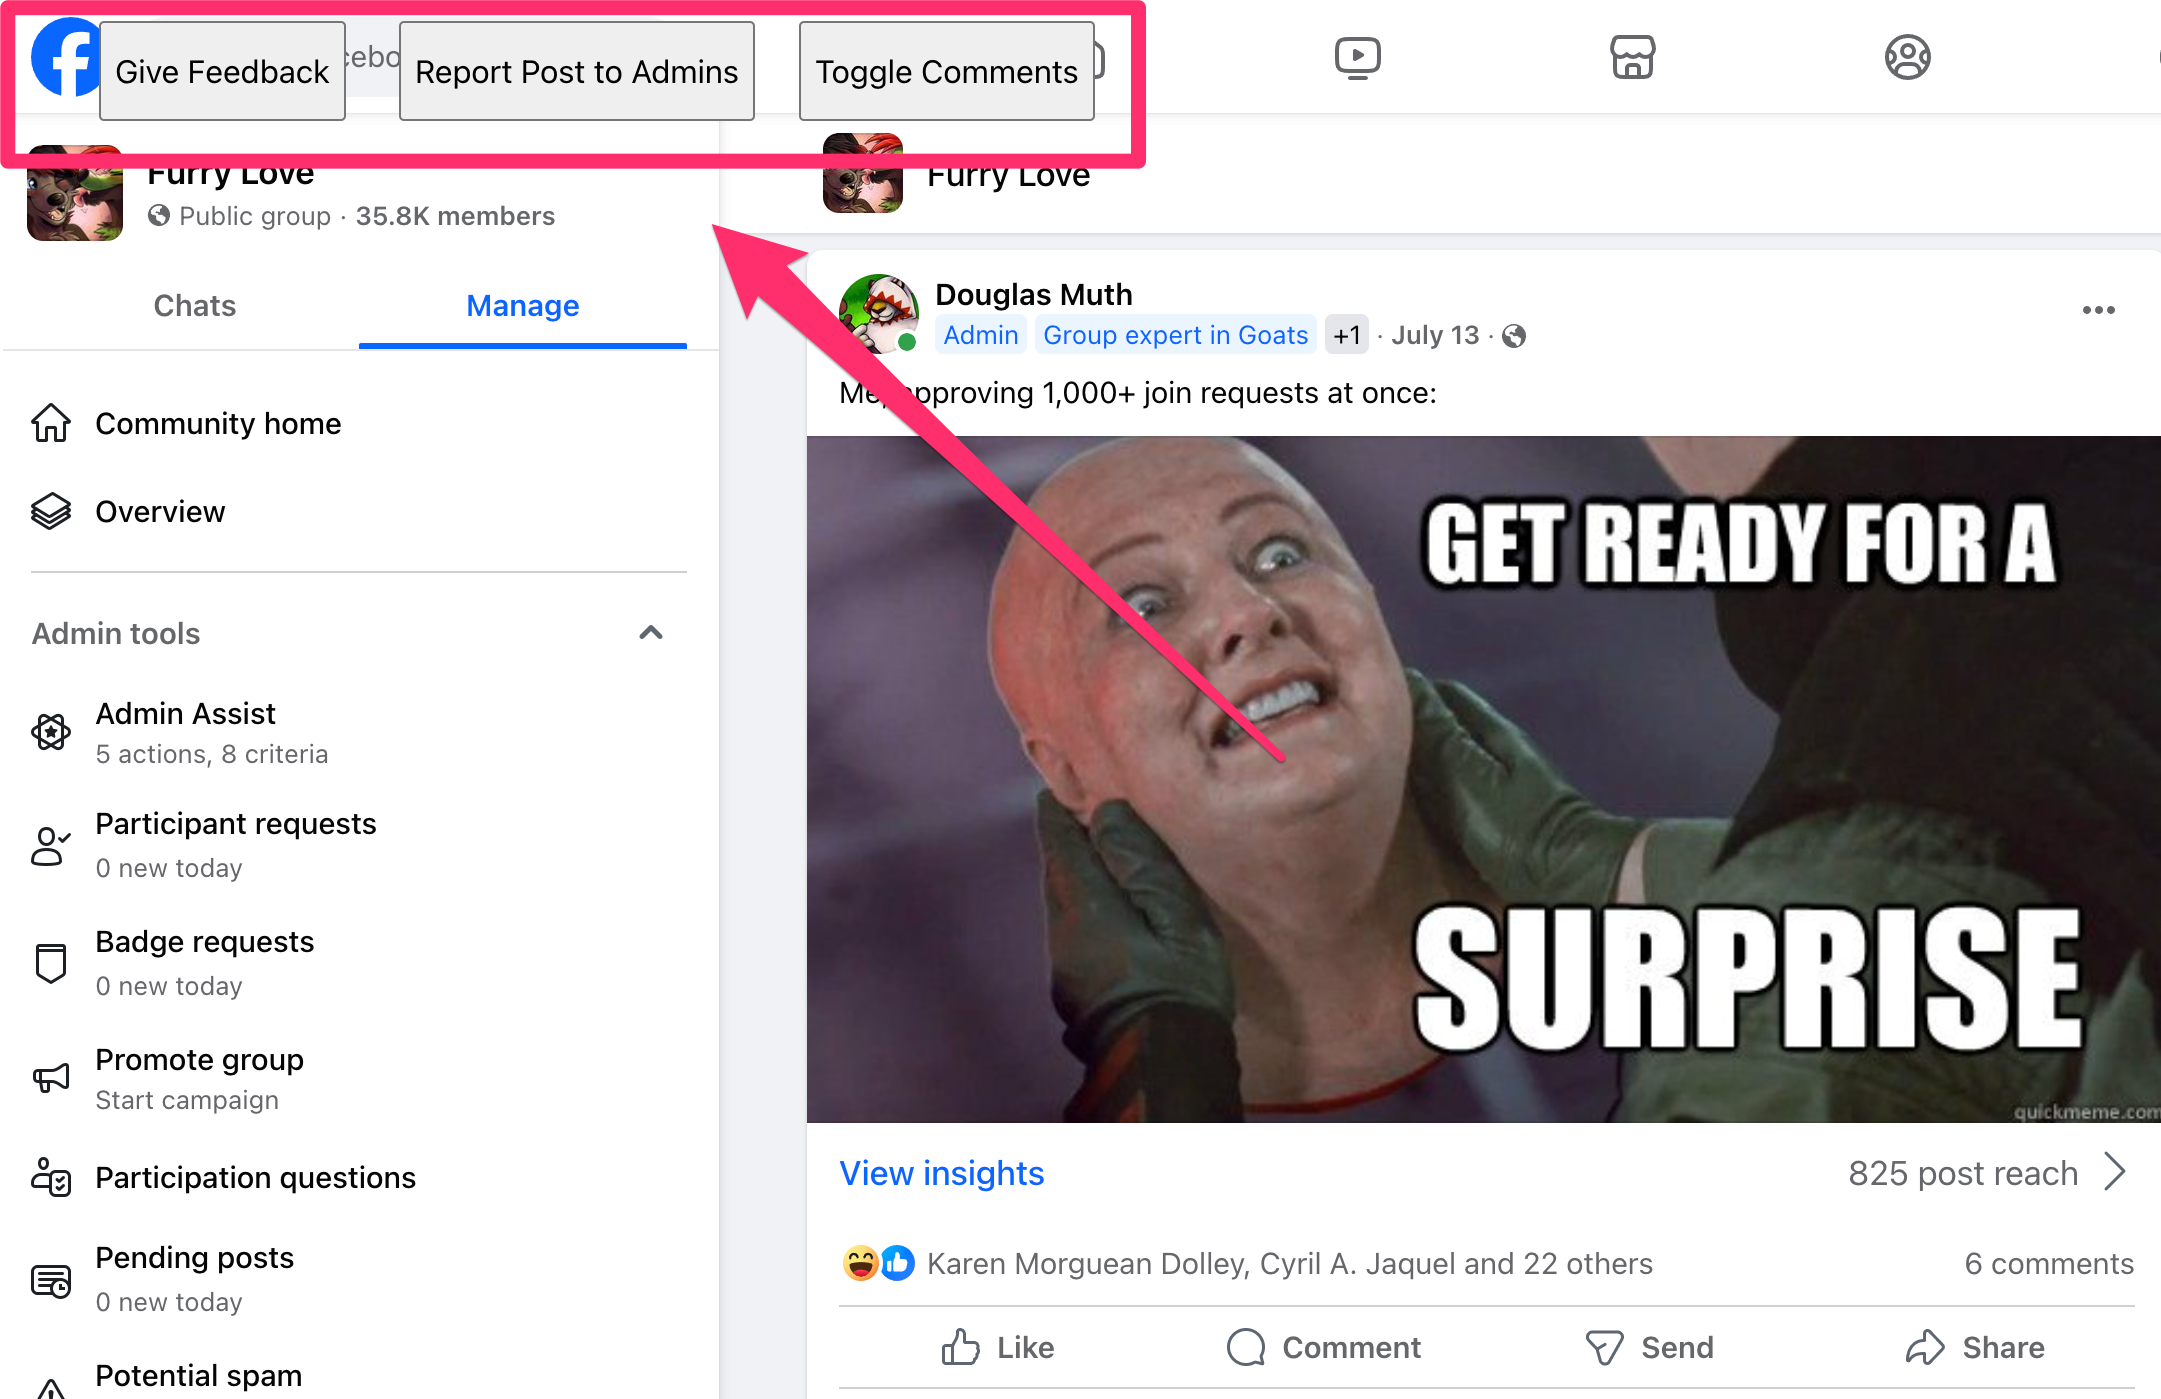
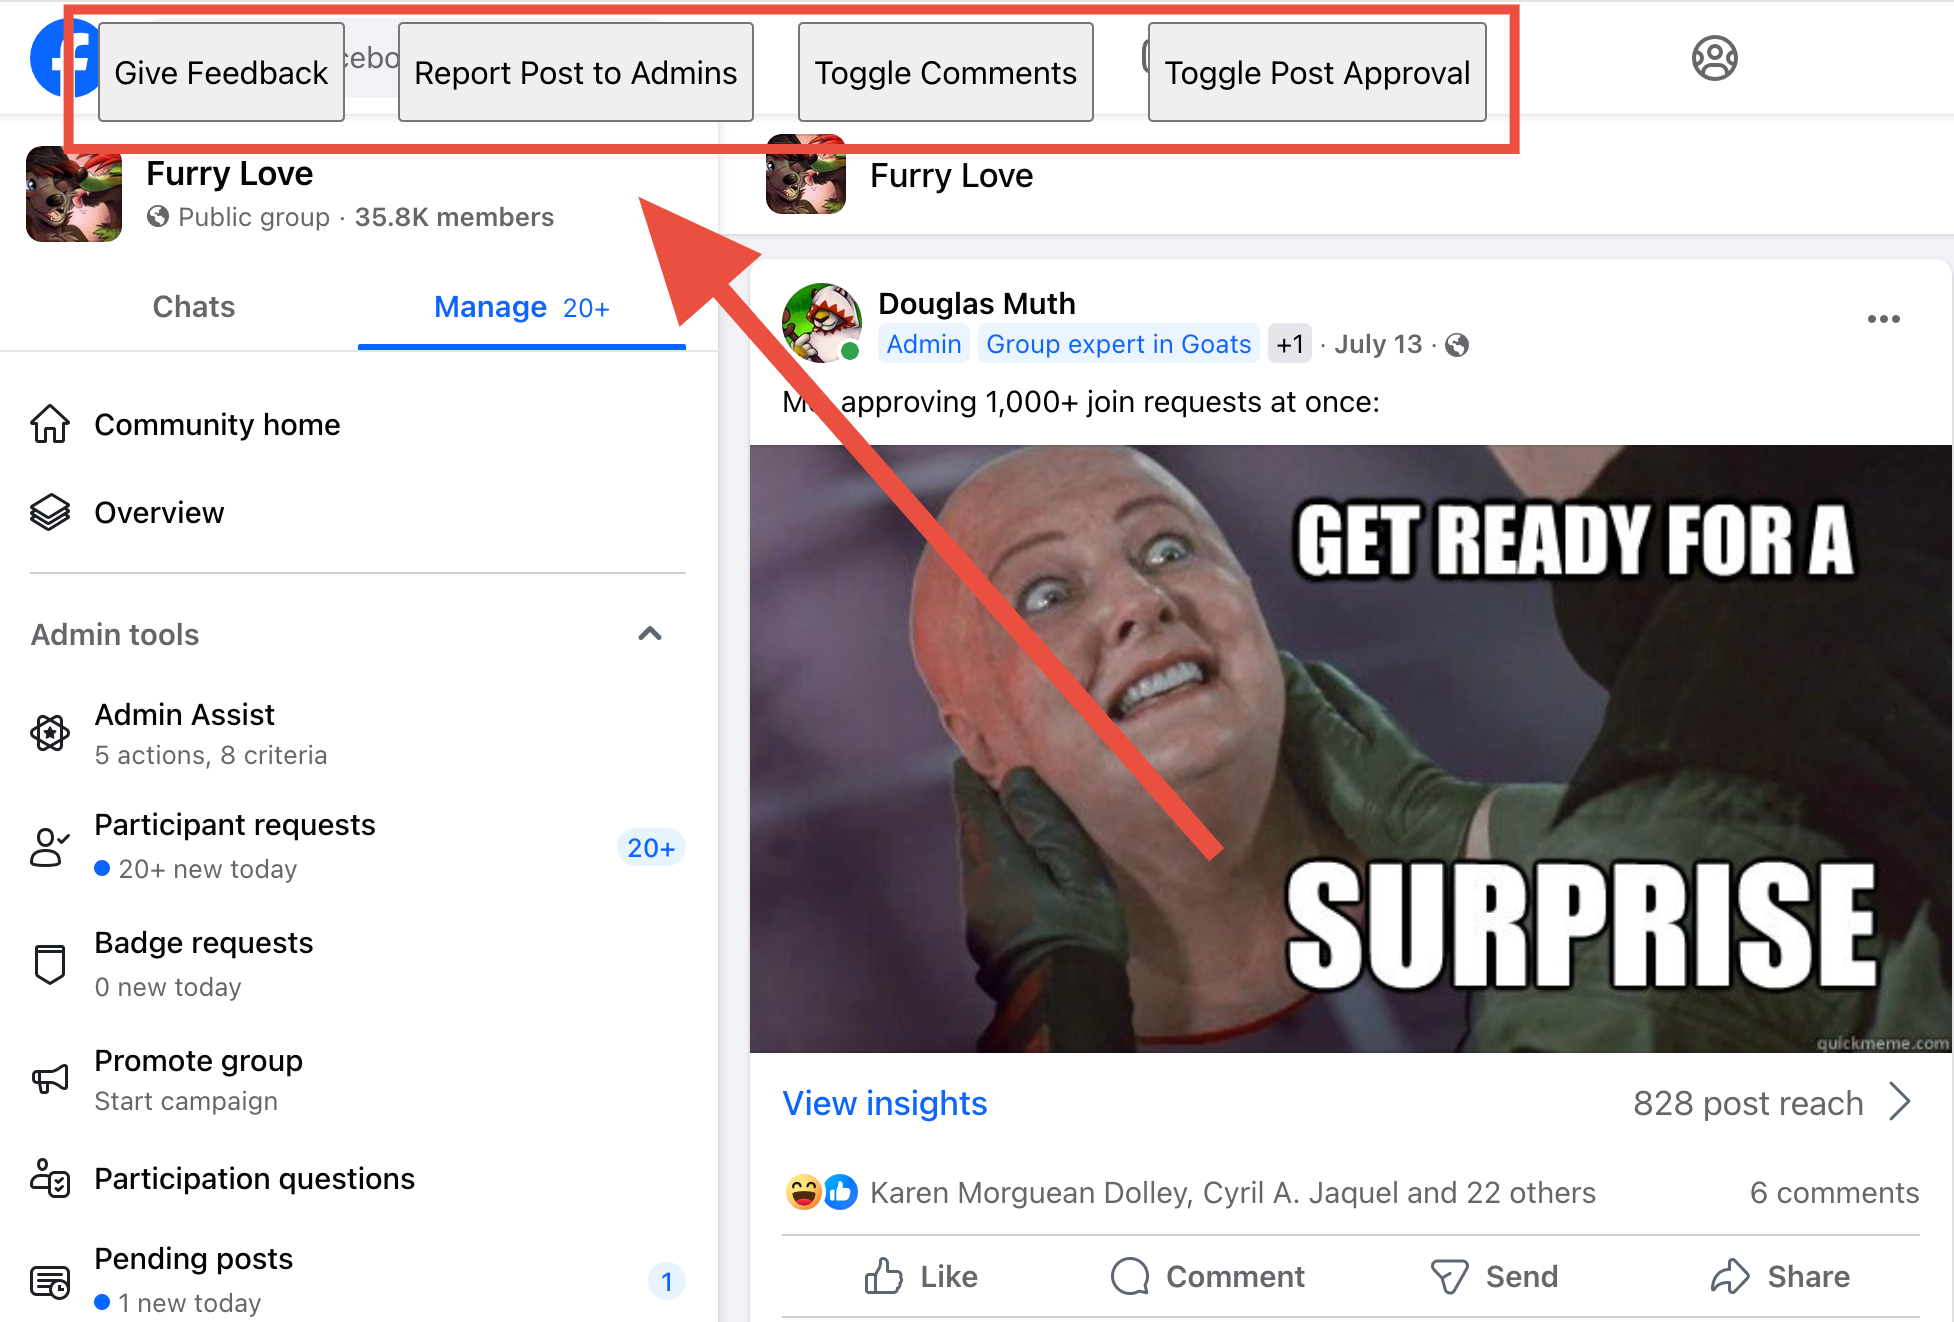
Updated screenshot.

diff --git a/README.md b/README.md
@@ -5,7 +5,12 @@ Javascript helper tools for Facebook groups that I run.
 ## FB Group Tools
 I wrote this [for a group that I run](https://www.facebook.com/groups/FurriesInLove/) which happens to have over 30,000 members, and substantial spam load.
 
-[fb-group-tools.js](https://github.com/dmuth/facebook-javascript-toolbox/blob/main/fb-group-tools.js) - Adds buttons to "Give Feedback", "Report Post To Admins", and "Toggle Comments" in the upper left of Facebook groups.
+- [fb-group-tools.js](https://github.com/dmuth/facebook-javascript-toolbox/blob/main/fb-group-tools.js)
+  - Adds the following buttons to Facebook Groups
+    - "Give Feedback"
+    - "Report Post To Admins"
+    - "Toggle Comments off/on"
+    - "Toggle Post Approval on/off"
 
 <img src="img/fb-group-tools.png" width="500" />
 
